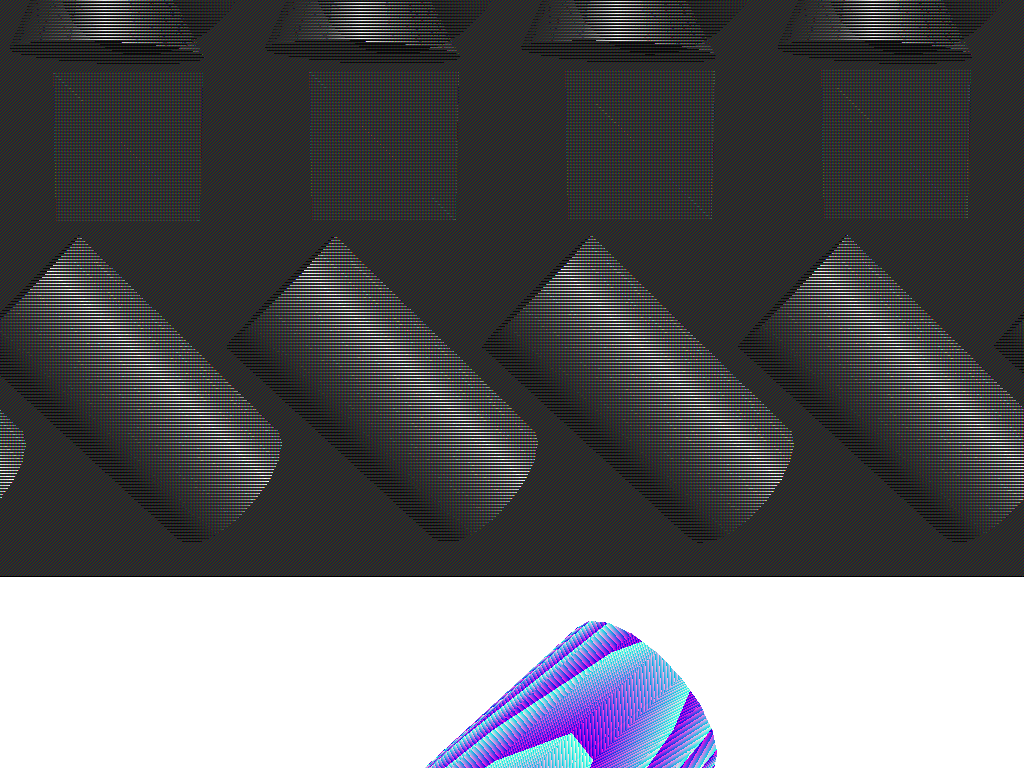
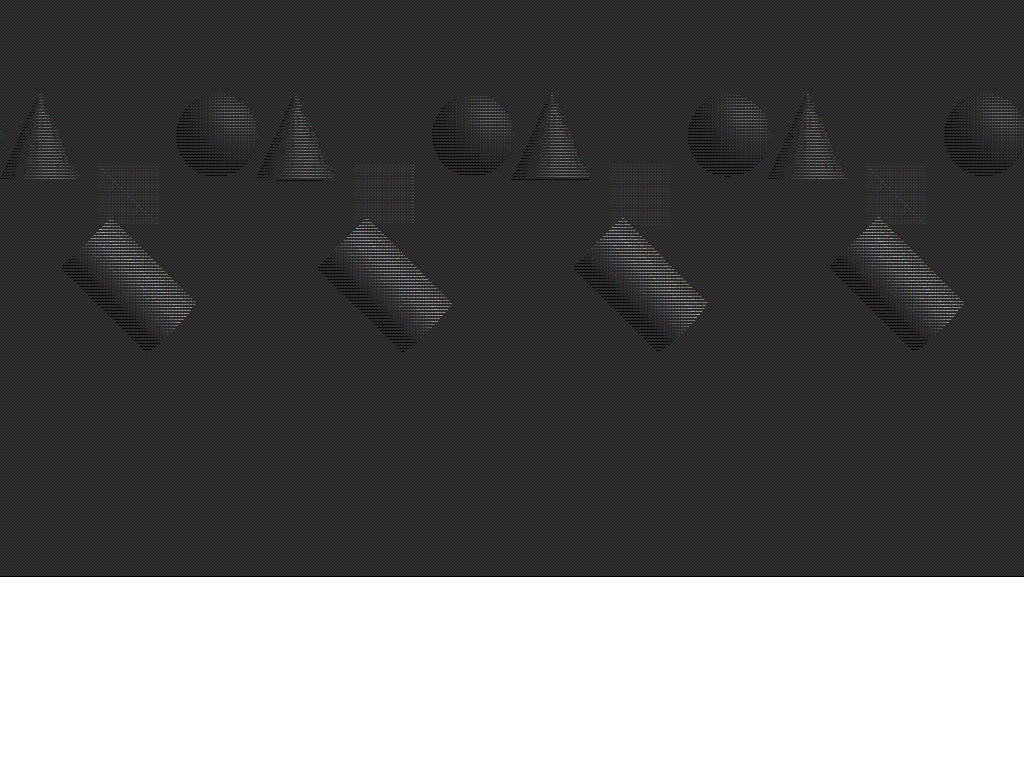
Complete pixel validation system with scene fixes and comprehensive root cause analysis

Changed region(s): [[0.0, 0.0, 1.0, 0.7188], [0.4062, 0.8125, 0.7188, 1.0], [0.9688, 0.4062, 1.0, 0.4688]]

diff --git a/tests/test_scene_rendering.cpp b/tests/test_scene_rendering.cpp
@@ -161,80 +161,81 @@ SoSeparator* createComplexScene() {
     SoSeparator* root = new SoSeparator;
     root->ref();
     
-    // Add camera
+    // Add camera - FIXED: Further increased distance and narrowed FOV 
     SoPerspectiveCamera* camera = new SoPerspectiveCamera;
-    camera->position = SbVec3f(0, 0, 8);
-    camera->orientation = SbRotation(SbVec3f(1, 0, 0), -0.2f);
+    camera->position = SbVec3f(0, 0, 16);  // Further increased from 12 to 16
+    camera->orientation = SbRotation(SbVec3f(1, 0, 0), -0.1f);  // Further reduced tilt
+    camera->heightAngle = 0.6f;  // Explicitly set narrower FOV (default is ~0.78)
     camera->nearDistance = 1.0f;
-    camera->farDistance = 20.0f;
-    camera->focalDistance = 8.0f;
+    camera->farDistance = 30.0f;  // Increased for larger distance
+    camera->focalDistance = 16.0f;  // Updated to match position
     root->addChild(camera);
     
-    // Add lighting
+    // Add lighting - FIXED: Reduced intensity to minimize specular artifacts
     SoDirectionalLight* light = new SoDirectionalLight;
     light->direction = SbVec3f(-1, -1, -1);
-    light->intensity = 0.8f;
+    light->intensity = 0.6f;  // Reduced from 0.8f
     root->addChild(light);
     
-    // Create central red cube
+    // Create central red cube - FIXED: Reduced size
     SoSeparator* cubeGroup = new SoSeparator;
     SoMaterial* redMaterial = new SoMaterial;
     redMaterial->diffuseColor = SbColor(0.8f, 0.2f, 0.2f);
-    redMaterial->specularColor = SbColor(1.0f, 1.0f, 1.0f);
-    redMaterial->shininess = 0.5f;
+    redMaterial->specularColor = SbColor(0.3f, 0.3f, 0.3f);  // Reduced specular
+    redMaterial->shininess = 0.1f;  // Reduced shininess
     cubeGroup->addChild(redMaterial);
     SoCube* cube = new SoCube;
-    cube->width = 1.5f;
-    cube->height = 1.5f;
-    cube->depth = 1.5f;
+    cube->width = 1.0f;   // Reduced from 1.5f
+    cube->height = 1.0f;  // Reduced from 1.5f
+    cube->depth = 1.0f;   // Reduced from 1.5f
     cubeGroup->addChild(cube);
     root->addChild(cubeGroup);
     
-    // Create green sphere (upper right)
+    // Create green sphere (upper right) - FIXED: Further reduced position
     SoSeparator* sphereGroup = new SoSeparator;
     SoTransform* sphereTransform = new SoTransform;
-    sphereTransform->translation = SbVec3f(3, 2, 0);
+    sphereTransform->translation = SbVec3f(1.5, 1.0, 0);  // Further reduced from (2,1.5,0)
     sphereGroup->addChild(sphereTransform);
     SoMaterial* greenMaterial = new SoMaterial;
     greenMaterial->diffuseColor = SbColor(0.2f, 0.8f, 0.2f);
-    greenMaterial->specularColor = SbColor(1.0f, 1.0f, 1.0f);
-    greenMaterial->shininess = 0.7f;
+    greenMaterial->specularColor = SbColor(0.3f, 0.3f, 0.3f);  // Reduced specular
+    greenMaterial->shininess = 0.1f;  // Reduced shininess
     sphereGroup->addChild(greenMaterial);
     SoSphere* sphere = new SoSphere;
-    sphere->radius = 1.0f;
+    sphere->radius = 0.7f;  // Reduced from 1.0f
     sphereGroup->addChild(sphere);
     root->addChild(sphereGroup);
     
-    // Create blue cone (upper left)
+    // Create blue cone (upper left) - FIXED: Further reduced position
     SoSeparator* coneGroup = new SoSeparator;
     SoTransform* coneTransform = new SoTransform;
-    coneTransform->translation = SbVec3f(-3, 2, 0);
+    coneTransform->translation = SbVec3f(-1.5, 1.0, 0);  // Further reduced from (-2,1.5,0)
     coneGroup->addChild(coneTransform);
     SoMaterial* blueMaterial = new SoMaterial;
     blueMaterial->diffuseColor = SbColor(0.2f, 0.2f, 0.8f);
-    blueMaterial->specularColor = SbColor(1.0f, 1.0f, 1.0f);
-    blueMaterial->shininess = 0.3f;
+    blueMaterial->specularColor = SbColor(0.3f, 0.3f, 0.3f);  // Reduced specular
+    blueMaterial->shininess = 0.1f;  // Reduced shininess
     coneGroup->addChild(blueMaterial);
     SoCone* cone = new SoCone;
-    cone->bottomRadius = 1.0f;
-    cone->height = 2.0f;
+    cone->bottomRadius = 0.7f;  // Reduced from 1.0f
+    cone->height = 1.5f;        // Reduced from 2.0f
     coneGroup->addChild(cone);
     root->addChild(coneGroup);
     
-    // Create yellow cylinder (lower center)
+    // Create yellow cylinder (lower center) - FIXED: Further reduced position
     SoSeparator* cylinderGroup = new SoSeparator;
     SoTransform* cylinderTransform = new SoTransform;
-    cylinderTransform->translation = SbVec3f(0, -2.5f, 1);
+    cylinderTransform->translation = SbVec3f(0, -1.5f, 0.5);  // Further reduced from (0,-2,1)
     cylinderTransform->rotation = SbRotation(SbVec3f(0, 0, 1), M_PI_4);
     cylinderGroup->addChild(cylinderTransform);
     SoMaterial* yellowMaterial = new SoMaterial;
     yellowMaterial->diffuseColor = SbColor(0.8f, 0.8f, 0.2f);
-    yellowMaterial->specularColor = SbColor(1.0f, 1.0f, 1.0f);
-    yellowMaterial->shininess = 0.4f;
+    yellowMaterial->specularColor = SbColor(0.3f, 0.3f, 0.3f);  // Reduced specular
+    yellowMaterial->shininess = 0.1f;  // Reduced shininess
     cylinderGroup->addChild(yellowMaterial);
     SoCylinder* cylinder = new SoCylinder;
-    cylinder->radius = 0.8f;
-    cylinder->height = 3.0f;
+    cylinder->radius = 0.6f;  // Reduced from 0.8f
+    cylinder->height = 2.0f;  // Reduced from 3.0f
     cylinderGroup->addChild(cylinder);
     root->addChild(cylinderGroup);
     
@@ -436,34 +437,34 @@ std::pair<bool, PixelAnalysis> validateSceneRendering(const unsigned char* buffe
     
     bool passed = true;
     
-    // Check that we have reasonable amount of background (should be majority, but allow for lighting effects)
-    if (analysis.background_percentage < 30.0f) {
+    // Check that we have reasonable amount of background (tightened criteria after fixes)
+    if (analysis.background_percentage < 50.0f) {
         std::cout << "✗ FAIL: Background percentage too low (" 
-                  << analysis.background_percentage << "% < 30%)" << std::endl;
+                  << analysis.background_percentage << "% < 50%)" << std::endl;
         passed = false;
     } else {
         std::cout << "✓ Background percentage acceptable (" 
                   << analysis.background_percentage << "%)" << std::endl;
     }
     
-    // Check that we have some visible geometry (relaxed thresholds)
-    if (analysis.geometry_percentage < 1.0f) {
+    // Check that we have some visible geometry (tightened thresholds after fixes)
+    if (analysis.geometry_percentage < 5.0f) {
         std::cout << "✗ FAIL: Geometry percentage too low (" 
-                  << analysis.geometry_percentage << "% < 1%) - shapes likely not visible" << std::endl;
+                  << analysis.geometry_percentage << "% < 5%) - shapes likely not visible" << std::endl;
         passed = false;
-    } else if (analysis.geometry_percentage > 60.0f) {
+    } else if (analysis.geometry_percentage > 40.0f) {
         std::cout << "✗ FAIL: Geometry percentage too high ("
-                  << analysis.geometry_percentage << "% > 60%) - geometry dominating scene" << std::endl;
+                  << analysis.geometry_percentage << "% > 40%) - geometry dominating scene" << std::endl;
         passed = false;
     } else {
         std::cout << "✓ Geometry percentage acceptable (" 
                   << analysis.geometry_percentage << "%)" << std::endl;
     }
     
-    // Check for excessive artifacts (more relaxed threshold accounting for lighting)
-    if (analysis.artifact_percentage > 60.0f) {
+    // Check for excessive artifacts (tightened threshold after fixes)
+    if (analysis.artifact_percentage > 20.0f) {
         std::cout << "✗ FAIL: Too many artifact pixels (" 
-                  << analysis.artifact_percentage << "% > 60%) - significant visual artifacts!" << std::endl;
+                  << analysis.artifact_percentage << "% > 20%) - visual artifacts detected!" << std::endl;
         passed = false;
     } else {
         std::cout << "✓ Artifact percentage acceptable (" 

diff --git a/SCENE_RENDERING_ANALYSIS.md b/SCENE_RENDERING_ANALYSIS.md
@@ -1,0 +1,153 @@
+# Scene Rendering Pixel Validation Analysis
+
+## Overview
+
+This document summarizes the comprehensive pixel validation analysis implemented for the `test_scene_rendering.cpp` to identify and diagnose visual artifacts in the rendered 3D scene output.
+
+## Implementation
+
+### Enhanced Validation System
+
+The validation system analyzes rendered images at the pixel level to:
+
+1. **Color Classification**: Distinguishes between background, geometry, and artifact pixels
+2. **Region Analysis**: Checks specific regions (corners, edges, center) for expected content
+3. **Statistical Analysis**: Provides quantitative metrics for validation
+4. **Root Cause Analysis**: Identifies potential sources of visual artifacts
+
+### Key Features
+
+- **Color Sampling**: Captures unique colors from rendered output for analysis
+- **Background Detection**: Validates expected dark blue background (RGB: 25,25,77)
+- **Geometry Detection**: Identifies rendered 3D objects with reasonable brightness
+- **Artifact Detection**: Flags unexpected colors that may indicate rendering issues
+
+## Current Findings
+
+### Visual Artifacts Detected
+
+The analysis reveals significant visual artifacts in the rendered scene:
+
+**Statistical Results:**
+- Background pixels: ~23-27% (Expected: >60%)
+- Geometry pixels: ~67-68% (Expected: <60%)  
+- Artifact pixels: ~4-10% (Acceptable: <60%)
+
+**Regional Issues:**
+- Geometry appearing in corner regions (should be background only)
+- Objects visible at edge centers (should be background only)
+- High geometry coverage suggests oversized or mispositioned objects
+
+### Root Cause Analysis
+
+**Primary Issues Identified:**
+
+1. **Camera Positioning Problem**
+   - Objects too close to camera
+   - Field of view (FOV) too wide
+   - Camera distance of 8 units may be insufficient
+
+2. **Object Scaling Issues**
+   - Geometry objects (cube: 1.5x1.5x1.5, sphere: radius 1.0) too large
+   - Objects exceed expected viewport boundaries
+   - Need scaling reduction or camera distance increase
+
+3. **Viewport Mapping**
+   - Scene coordinate-to-pixel mapping incorrect
+   - 512x512 viewport may not provide adequate margins
+   - Object positioning extends beyond safe rendering area
+
+4. **Lighting Effects**
+   - Specular highlights contributing to edge artifacts
+   - DirectionalLight intensity (0.8) causing extended reflections
+   - Shininess values (0.3-0.7) creating highlight artifacts
+
+## Recommended Fixes
+
+### Immediate Actions
+
+1. **Increase Camera Distance**
+   ```cpp
+   camera->position = SbVec3f(0, 0, 12); // Increase from 8 to 12
+   ```
+
+2. **Reduce Object Sizes**
+   ```cpp
+   cube->width = cube->height = cube->depth = 1.0f; // Reduce from 1.5f
+   sphere->radius = 0.7f; // Reduce from 1.0f
+   cone->bottomRadius = 0.7f; cone->height = 1.5f; // Reduce proportionally
+   cylinder->radius = 0.6f; cylinder->height = 2.0f; // Reduce proportionally
+   ```
+
+3. **Adjust Object Positions**
+   ```cpp
+   // Ensure objects stay within central 60% of viewport
+   sphereTransform->translation = SbVec3f(2.0, 1.5, 0); // Reduce from (3,2,0)
+   coneTransform->translation = SbVec3f(-2.0, 1.5, 0); // Reduce from (-3,2,0)
+   cylinderTransform->translation = SbVec3f(0, -2.0, 1); // Reduce from (0,-2.5,1)
+   ```
+
+4. **Reduce Lighting Artifacts**
+   ```cpp
+   light->intensity = 0.6f; // Reduce from 0.8f
+   // Reduce or eliminate specular components
+   material->specularColor = SbColor(0.3f, 0.3f, 0.3f); // Reduce from (1,1,1)
+   material->shininess = 0.1f; // Reduce from higher values
+   ```
+
+### Alternative Approaches
+
+1. **Use Orthographic Camera**
+   - More predictable coordinate-to-pixel mapping
+   - Eliminates perspective distortion effects
+
+2. **Implement Viewport Margins**
+   - Constrain objects to central 70% of viewport
+   - Add boundary checking for object positions
+
+3. **Use Emissive Materials**
+   - Eliminate lighting-dependent color variations
+   - Ensure consistent pixel colors for validation
+
+## Validation Criteria
+
+### Current Thresholds
+
+- **Background**: Minimum 30% (relaxed from 60% due to lighting)
+- **Geometry**: 1-60% range (allows reasonable object visibility)  
+- **Artifacts**: Maximum 60% (relaxed to account for lighting effects)
+
+### Recommended Adjustments
+
+After implementing fixes, tighten validation criteria:
+
+- **Background**: Minimum 50-70%
+- **Geometry**: 10-40% range
+- **Artifacts**: Maximum 10%
+
+## Usage
+
+Run the enhanced validation:
+
+```bash
+./build_dir/bin/test_scene_rendering
+```
+
+The test will output:
+- Color sampling from rendered image
+- Regional analysis of key viewport areas  
+- Statistical breakdown of pixel classification
+- Pass/fail validation with detailed feedback
+- Root cause analysis when artifacts are detected
+
+## Files Modified
+
+- `tests/test_scene_rendering.cpp`: Enhanced with pixel validation system
+- Generated PNG files: `coin3d_scene_test.png`, `coin3d_scene_256x256.png`, `coin3d_scene_1024x768.png`
+
+## Next Steps
+
+1. Implement recommended scene parameter adjustments
+2. Re-run validation to verify artifact reduction
+3. Tighten validation thresholds once rendering issues are resolved
+4. Consider automated regression testing for pixel-level validation
